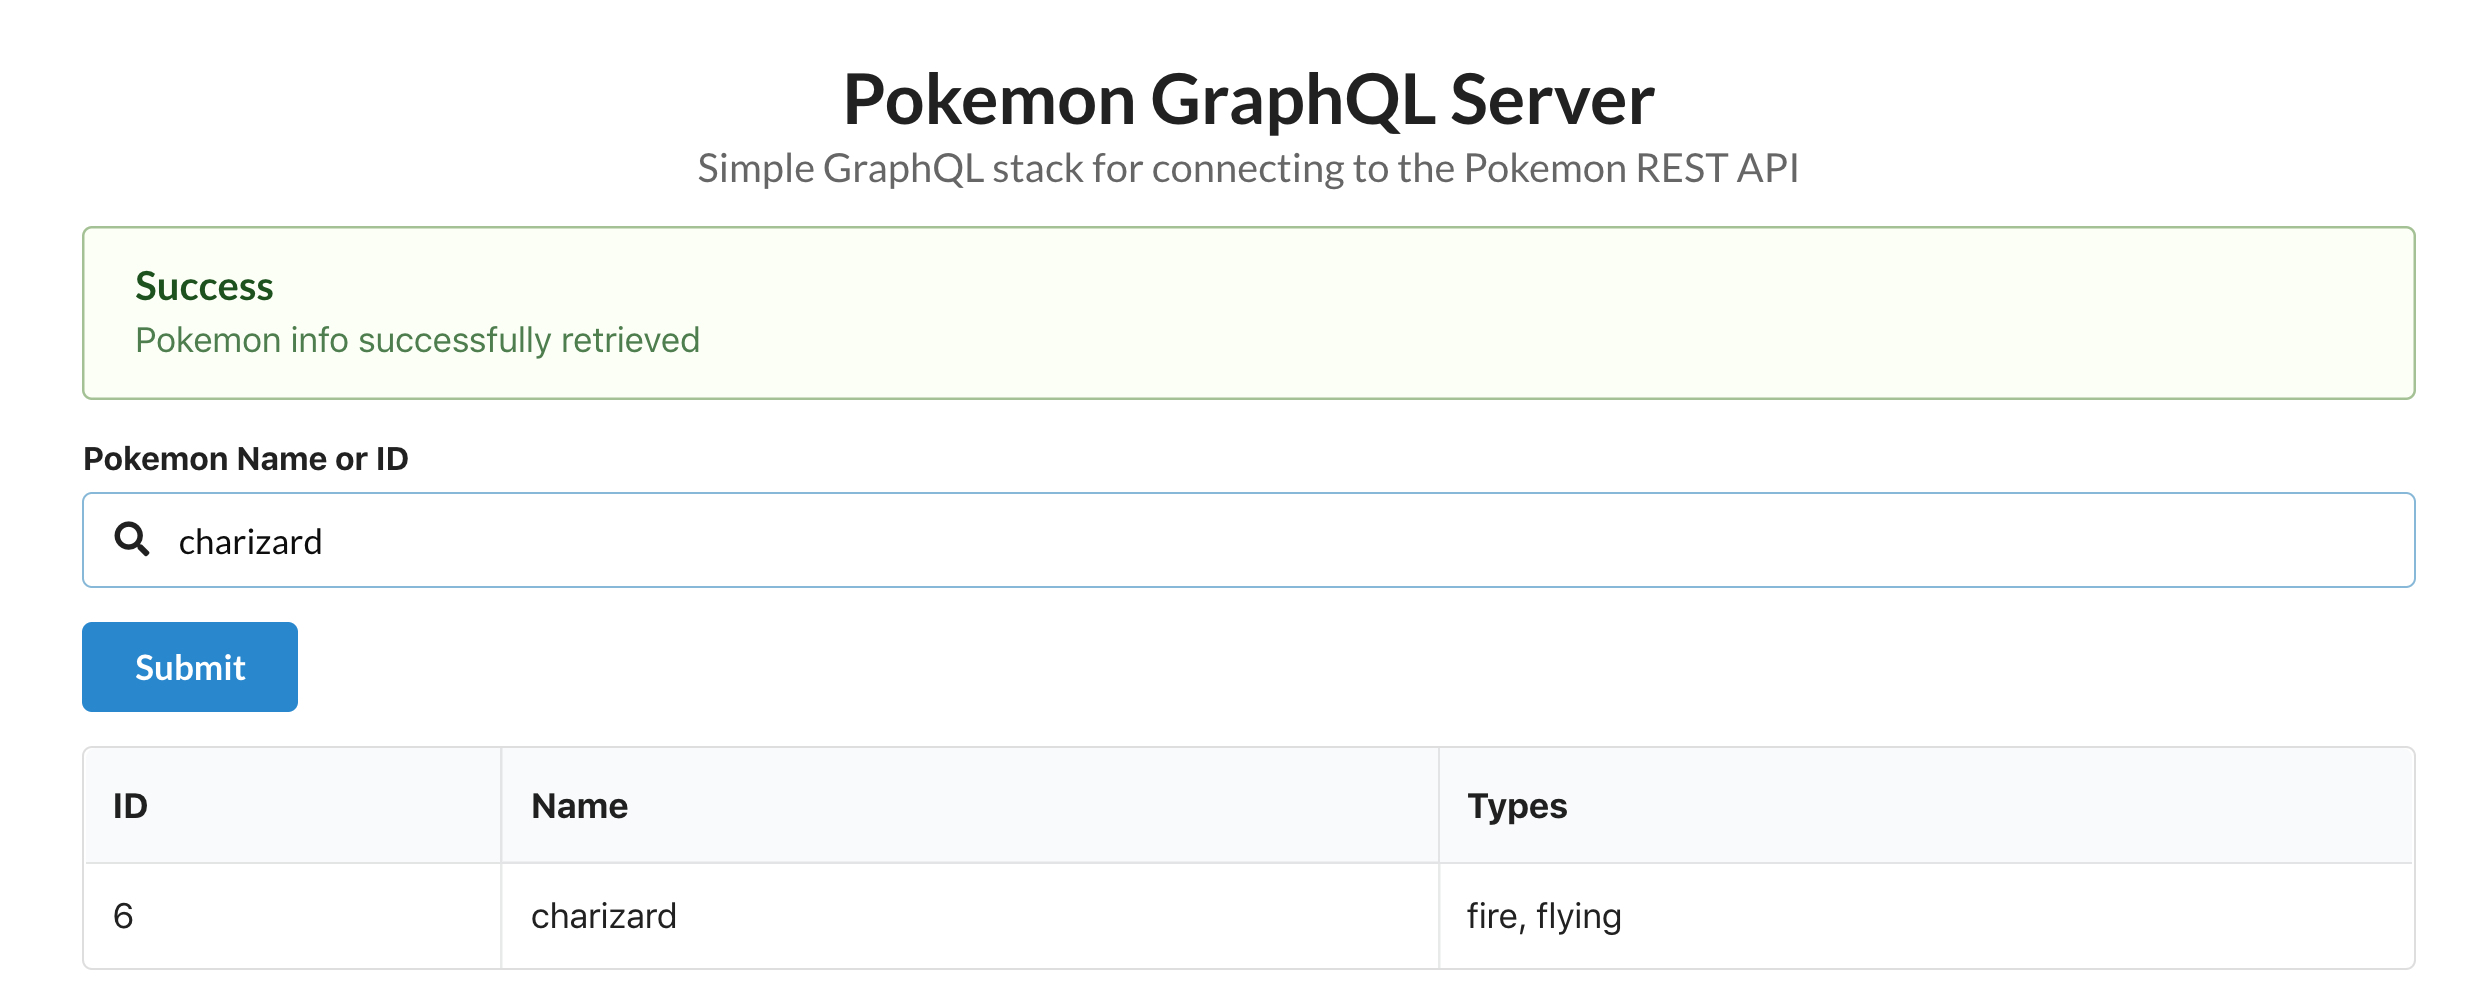
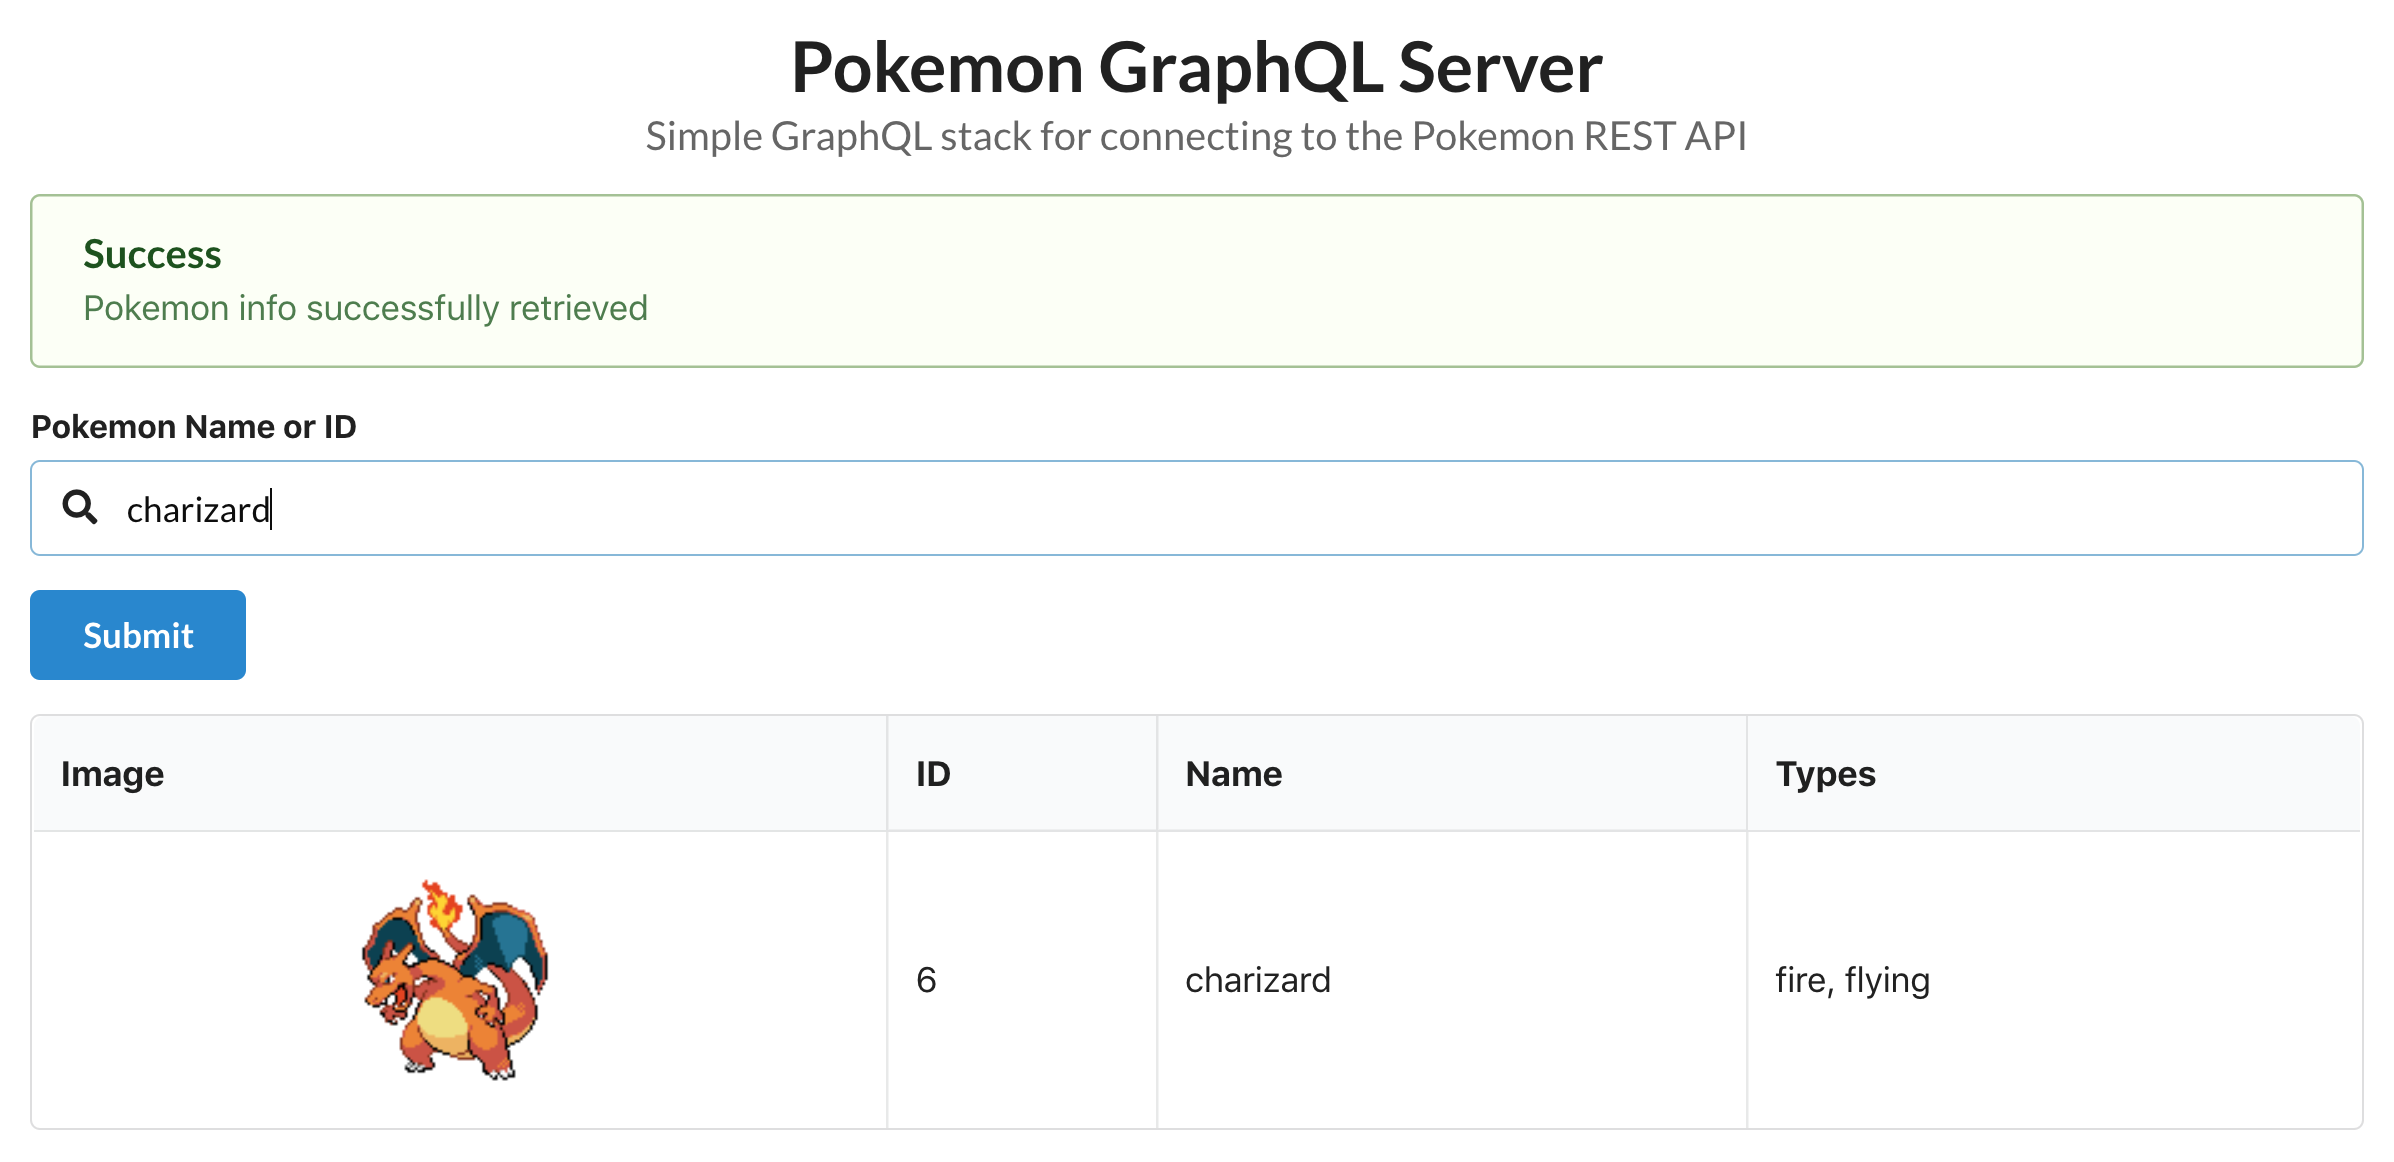
Add Pokemon Image (#10)

diff --git a/client/src/components/PokemonTable.tsx b/client/src/components/PokemonTable.tsx
@@ -1,5 +1,5 @@
 import React from "react";
-import { Table } from "semantic-ui-react";
+import { Table, Image } from "semantic-ui-react";
 import { PokemonQuery } from "../__generated__/graphql";
 
 interface PokemonTableProps {
@@ -10,6 +10,7 @@ const PokemonTable: React.FC<PokemonTableProps> = ({ pokemonQuery }) => (
   <Table celled data-test="pokemon-table">
     <Table.Header>
       <Table.Row>
+        <Table.HeaderCell>Image</Table.HeaderCell>
         <Table.HeaderCell>ID</Table.HeaderCell>
         <Table.HeaderCell>Name</Table.HeaderCell>
         <Table.HeaderCell>Types</Table.HeaderCell>
@@ -18,6 +19,9 @@ const PokemonTable: React.FC<PokemonTableProps> = ({ pokemonQuery }) => (
 
     <Table.Body>
       <Table.Row>
+        <Table.Cell textAlign="center">
+          <Image src={pokemonQuery.pokemon.imageURL} centered />
+        </Table.Cell>
         <Table.Cell>{pokemonQuery.pokemon.id}</Table.Cell>
         <Table.Cell>{pokemonQuery.pokemon.name}</Table.Cell>
         <Table.Cell>{pokemonQuery.pokemon.types.join(", ")}</Table.Cell>

diff --git a/server/src/pokemon-service/pokemon-service.ts b/server/src/pokemon-service/pokemon-service.ts
@@ -6,6 +6,7 @@ export interface Pokemon {
   id: number;
   name: string;
   types: string[];
+  imageURL: string;
 }
 
 export interface PokemonType {
@@ -13,10 +14,15 @@ export interface PokemonType {
   type: { name: string; url: string };
 }
 
+export interface PokemonSprites {
+  front_default: string;
+}
+
 export interface PokemonApiResponse {
   id: number;
   name: string;
   types: PokemonType[];
+  sprites: PokemonSprites;
 }
 
 export class PokemonService {
@@ -38,6 +44,7 @@ export class PokemonService {
         id: pokemon.id,
         name: pokemon.name,
         types: formattedPokemonTypes,
+        imageURL: pokemon.sprites.front_default,
       };
     } catch (err) {
       const responseCode = get(err, 'response', 'status');

diff --git a/server/test-integration/pokemon-resolver.spec.ts b/server/test-integration/pokemon-resolver.spec.ts
@@ -7,6 +7,7 @@ describe('PokemonResolver', () => {
           id
           name
           types
+          imageURL
         }
       }
     `;
@@ -25,6 +26,8 @@ describe('PokemonResolver', () => {
           id: '1',
           name: 'bulbasaur',
           types: ['grass', 'poison'],
+          imageURL:
+            'https://raw.githubusercontent.com/PokeAPI/sprites/master/sprites/pokemon/1.png',
         },
       },
     });
@@ -44,6 +47,8 @@ describe('PokemonResolver', () => {
           id: '1',
           name: 'bulbasaur',
           types: ['grass', 'poison'],
+          imageURL:
+            'https://raw.githubusercontent.com/PokeAPI/sprites/master/sprites/pokemon/1.png',
         },
       },
     });

diff --git a/client/src/__generated__/graphql.tsx b/client/src/__generated__/graphql.tsx
@@ -19,6 +19,7 @@ export type PokemonGql = {
   id: Scalars['String'];
   name: Scalars['String'];
   types: Array<Scalars['String']>;
+  imageURL: Scalars['String'];
 };
 
 export type Query = {
@@ -36,7 +37,7 @@ export type PokemonQueryVariables = Exact<{
 }>;
 
 
-export type PokemonQuery = { __typename?: 'Query', pokemon: { __typename?: 'PokemonGQL', id: string, name: string, types: Array<string> } };
+export type PokemonQuery = { __typename?: 'Query', pokemon: { __typename?: 'PokemonGQL', id: string, name: string, types: Array<string>, imageURL: string } };
 
 
 export const PokemonDocument = gql`
@@ -45,6 +46,7 @@ export const PokemonDocument = gql`
     id
     name
     types
+    imageURL
   }
 }
     `;

diff --git a/server/src/pokemon-service/pokemon-service.spec.ts b/server/src/pokemon-service/pokemon-service.spec.ts
@@ -25,15 +25,19 @@ describe('PokemonService', () => {
             type: { name: 'test-pokemon-type', url: 'test-url' },
           },
         ],
+        sprites: {
+          front_default: 'test-sprite-url',
+        },
       });
 
     const result = await service.getPokemonInfo('test-pokemon-name');
 
     expect(requestPokemon.isDone()).toBe(true);
-    expect(result).toMatchObject({
+    expect(result).toEqual({
       id: 1,
       name: 'test-pokemon-name',
       types: ['test-pokemon-type'],
+      imageURL: 'test-sprite-url',
     });
   });
 

diff --git a/client/src/components/PokemonTable.spec.tsx b/client/src/components/PokemonTable.spec.tsx
@@ -12,6 +12,7 @@ describe("PokemonTable", () => {
               id: "test-pokemon-id",
               name: "test-pokemon-name",
               types: ["test-pokemon-type"],
+              imageURL: "test-image-url",
             },
           },
         }}
@@ -25,6 +26,7 @@ describe("PokemonTable", () => {
         id: "test-pokemon-id",
         name: "test-pokemon-name",
         types: ["test-pokemon-type"],
+        imageURL: "test-image-url",
       },
     });
   });

diff --git a/server/src/resolvers/pokemon-type.ts b/server/src/resolvers/pokemon-type.ts
@@ -10,4 +10,7 @@ export class PokemonGQL {
 
   @Field(() => [String])
   types: string[];
+
+  @Field(() => String)
+  imageURL: string;
 }

diff --git a/README.md b/README.md
@@ -2,6 +2,8 @@
 
 Simple GraphQL stack for connecting to the pokemon REST API. Search for pokemon info by name or ID.
 
+## Screenshot
+
 ![](docs/screenshot.png)
 
 ## Architecture Overview
